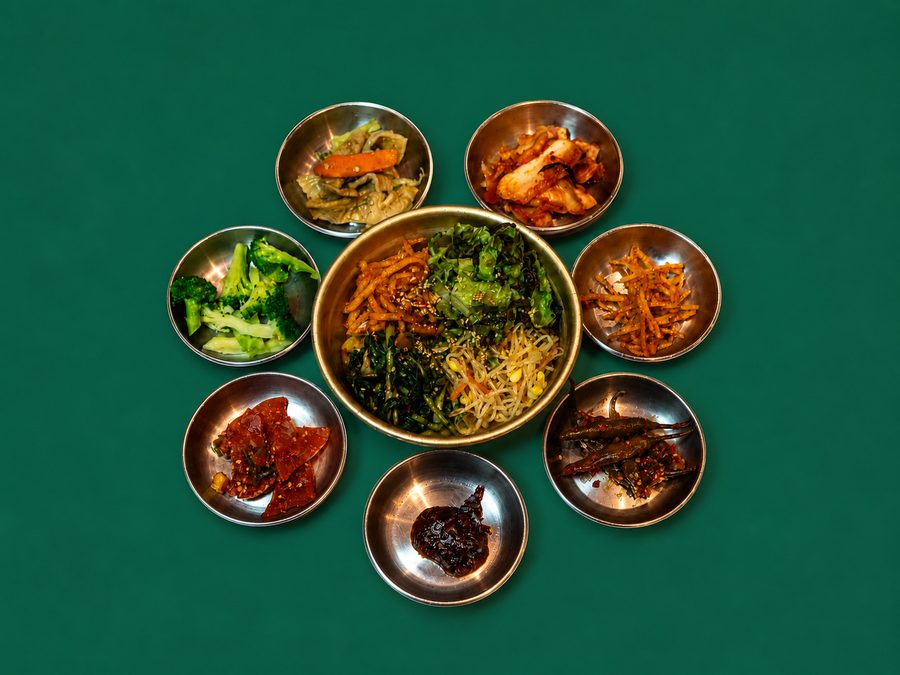
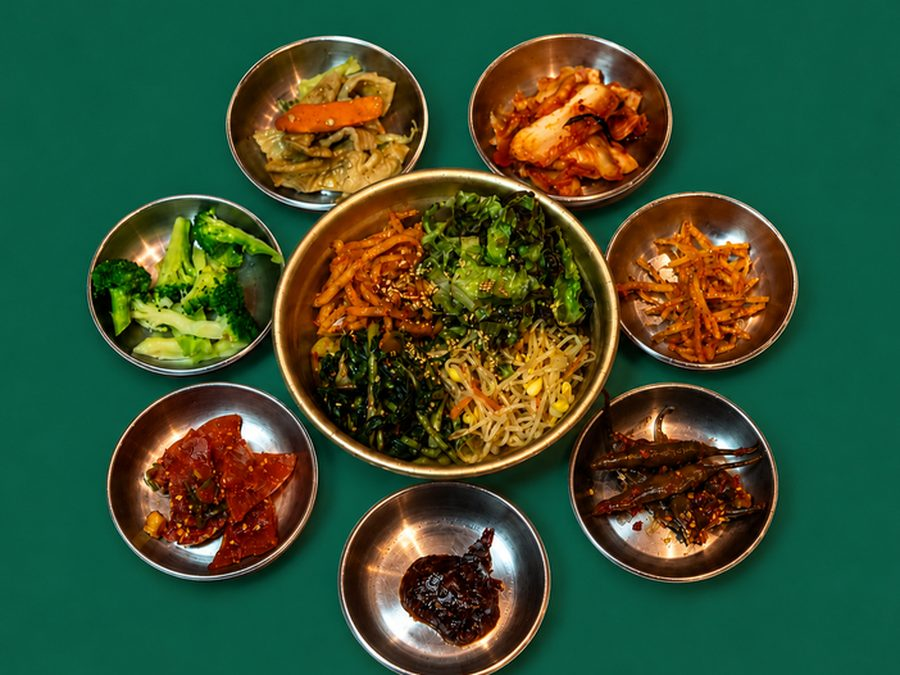
양푼이비빔밥 사진 더 크게 — 가운데 78%만 사용
초록 배경이 넓어 상이 작아 보였습니다. 가운데를 잘라 키우되
밑반찬 여덟 그릇이 모두 들어가는 선까지만 잘랐습니다.

잘라낼 사진과 비율은 ZOOM 에 모아뒀습니다. 다른 사진도 작아 보이면
파일명과 비율만 한 줄 적으면 됩니다.

diff --git a/tools/build_food_photos.py b/tools/build_food_photos.py
@@ -70,6 +70,13 @@ MAP = {
     # "drink-1.jpg":  ("공용메뉴", "MH_07560"),
 }
 
+# 여백이 많아 음식이 작아 보이는 사진은 가운데를 잘라 키웁니다.
+#   값은 「원본의 몇 할을 쓸지」 — 0.8 이면 가운데 80%만 씁니다.
+ZOOM = {
+    "bibimbap.jpg": 0.78,   # 양푼이비빔밥 — 초록 배경이 넓어 상이 작아 보였습니다
+}
+
+
 # 배경 교체본이 없어 촬영 원본에서 바로 뽑은 사진.
 # 자판기가 프레임을 채우도록 좌우를 잘라 씁니다.
 #   이름 : (원본번호, 가로/세로, 가로폭, 좌측 시작 비율, 사용할 폭 비율)
@@ -148,6 +155,13 @@ def main() -> None:
             # 시계 방향으로 돌립니다 (Pillow 는 반시계 기준이라 부호를 뒤집습니다)
             src_im = im.rotate(-rotate, expand=True) if rotate else im
             out = fit_on_background(src_im, RATIO, WIDTH)
+        z = ZOOM.get(name)
+        if z:
+            w, h = out.size
+            cw, ch = round(w * z), round(h * z)
+            out = out.crop(((w - cw) // 2, (h - ch) // 2,
+                            (w - cw) // 2 + cw, (h - ch) // 2 + ch))
+            out = out.resize((WIDTH, round(WIDTH / RATIO)), Image.LANCZOS)
 
         buf = io.BytesIO()
         out.save(buf, "JPEG", quality=QUALITY, optimize=True,
